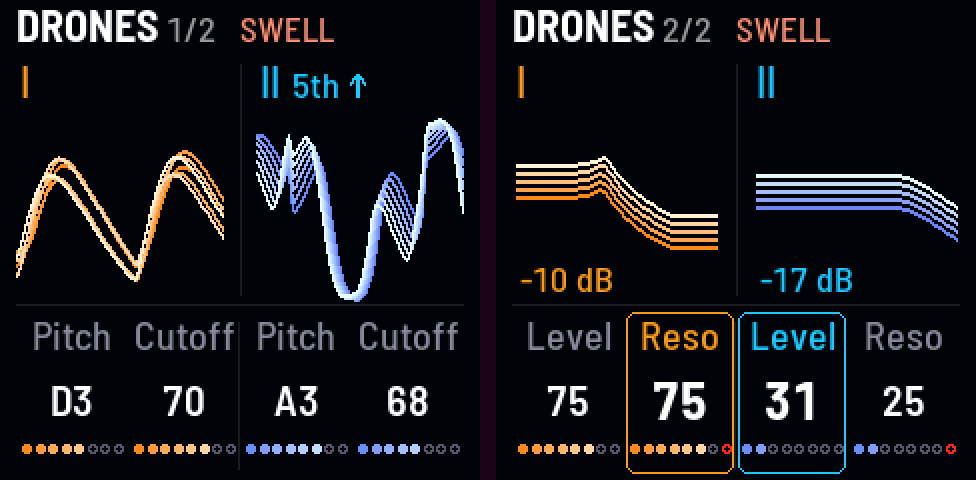
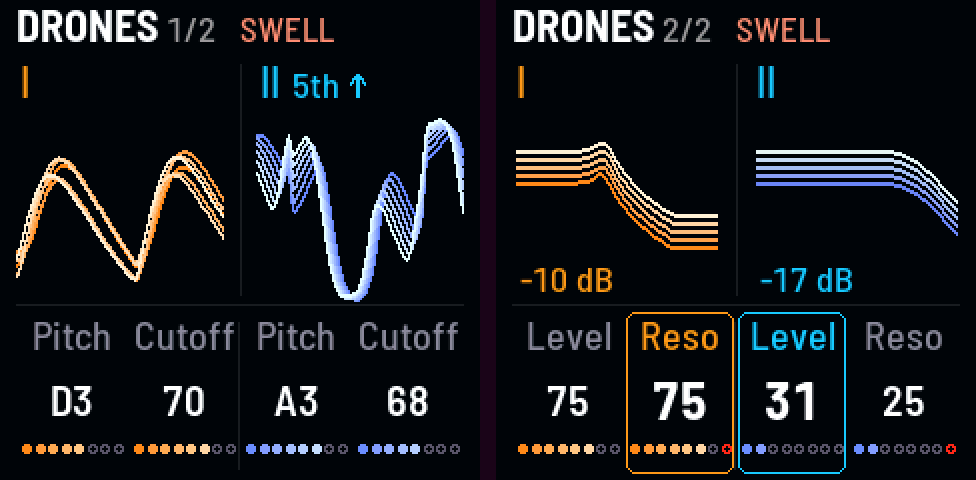
Drones 2: the curves stay in place at any level, silent as a thin gray curve; the host's lvl0 / lvl1 probes (Evan)

Changed region(s): [[0.7684, 0.3125, 0.9836, 0.5], [0.5225, 0.2812, 0.707, 0.5]]

diff --git a/firmware/src/app/look.c b/firmware/src/app/look.c
@@ -433,7 +433,8 @@ static void lk_pic_drones1(void)
 
 /* ------------------------------------------------- Drones 2's picture --- */
 /* each drone's filter curve (its resonance's peak growing) as six strands, the last six pictures' cutoffs (an LFO or
- * Drift on it fans them), as high as the drone is loud (Evan, 2026-11-01: by Level); its level in dB under it */
+ * Drift on it fans them), in place at any level, closing up and dimming toward silence (Evan, 2026-11-02); its
+ * level in dB under it */
 static float lk_cut_hist[DR_NGROUPS][LK_STRANDS];
 
 static void lk_pic_drones2(void)
@@ -444,16 +445,22 @@ static void lk_pic_drones2(void)
     for (g = 0; g < DR_NGROUPS; g++) {
         const int32_t x0 = g ? 130 : 10;
         const float l = dr_level[g], db = l > 1e-4f ? 6.0206f * fm_log2f(l) : -99.0f;
-        const float lf = fm_clampf((db + 48.0f) / 48.0f, 0.0f, 1.0f);
         char t[12];
         for (j = 0; j < LK_STRANDS - 1; j++)
             lk_cut_hist[g][j] = lk_cut_hist[g][j + 1];
         lk_cut_hist[g][LK_STRANDS - 1] = dr_cut[g];
         {
             float br, cl;
-            if (!lk_heard(g, &br, &cl))        /* silent: one thin gray line */
-                cv_rect(x0, bot - LK_BDY, 101, 1, LK_UNLIT);
-            else
+            if (!lk_heard(g, &br, &cl)) {      /* silent: the curve as one thin gray line, where it was */
+                int32_t py = 0, yy;
+                for (i = 0; i <= 50; i++) {
+                    const float d = filt_db(g, lk_cut_hist[g][LK_STRANDS - 1], 100.0f * (float)i / 50.0f);
+                    yy = bot - LK_BDY - (int32_t)((fm_clampf(d, -36.0f, 18.0f) + 36.0f) / 54.0f * (float)(h - 5 * LK_BDY));
+                    if (i)
+                        cv_line(x0 + 2 * (i - 1), py, x0 + 2 * i, yy, LK_UNLIT);
+                    py = yy;
+                }
+            } else
                 for (j = 1; j < LK_STRANDS; j++) {   /* five (Evan, 2026-11-02: one fewer, the same ramp), closing
                                                       * up and dimming near silence: the oldest first, deep; the
                                                       * newest last, light */
@@ -462,7 +469,9 @@ static void lk_pic_drones2(void)
                     for (i = 0; i <= 50; i++) {
                         const float d = filt_db(g, lk_cut_hist[g][j], 100.0f * (float)i / 50.0f);
                         y[i] = (int16_t)(bot - oy - (int32_t)((fm_clampf(d, -36.0f, 18.0f) + 36.0f) / 54.0f *
-                                                              (float)(h - 5 * LK_BDY) * lf));
+                                                              (float)(h - 5 * LK_BDY)));   /* in place at any level
+                                                                                             * (Evan, 2026-11-02: it
+                                                                                             * sank as it got quiet) */
                     }
                     lk_plot(x0, y, 51, lk_mix(0x07060Bu, lk_ramp888(g, (float)(j - 1) / (float)(LK_STRANDS - 2)), br));
                 }

diff --git a/host/omni_host.c b/host/omni_host.c
@@ -414,6 +414,8 @@ static int expect(const char *what, const char *val)
         for (n = 0; n < NSCENES; n++)
             got |= (scene_has(proj.bank, n) != 0) << n;
     }
+    else if (!strcmp(what, "lvl0") || !strcmp(what, "lvl1"))   /* a drone's level heard (dr_level), dB; -99 silent */
+        got = dr_level[what[3] - '0'] > 1e-5f ? (int)(20.0f * log10f(dr_level[what[3] - '0'])) : -99;
     else if (!strcmp(what, "lfo0"))                /* the LFO's Wave I now, x 100 */
         got = (int)(dr_lfo[0] * 100.0f);
     else if (!strcmp(what, "phones"))             /* the engine told: headphones in (no Speaker cut) */
